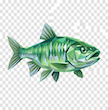
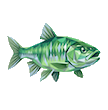
图片抠图替换效果

diff --git a/frontend/src/pages/Quiz.css b/frontend/src/pages/Quiz.css
@@ -173,9 +173,9 @@
 
 .reel-progress__fish {
   position: absolute;
-  top: 1px;
-  width: 82px;
-  height: 56px;
+  top: 3px;
+  width: 88px;
+  height: 60px;
 }
 
 .reel-progress__fish.is-hidden {
@@ -184,30 +184,101 @@
 
 .reel-progress__fish-body {
   position: relative;
-  width: 82px;
-  height: 56px;
+  width: 88px;
+  height: 60px;
+  transform-origin: 52% 62%;
+}
+
+.reel-progress__fish-body::after {
+  content: "";
+  position: absolute;
+  left: 18px;
+  right: 10px;
+  bottom: 6px;
+  height: 10px;
+  border-radius: 999px;
+  background: radial-gradient(ellipse at center, rgba(148, 206, 187, 0.26), rgba(148, 206, 187, 0));
+  filter: blur(4px);
+  opacity: 0.72;
 }
 
 .reel-progress__fish-icon {
-  width: 82px;
-  height: 56px;
+  position: relative;
+  z-index: 1;
+  width: 88px;
+  height: 60px;
   object-fit: contain;
-  filter: drop-shadow(0 10px 18px rgba(80, 121, 74, 0.18));
+  filter:
+    drop-shadow(0 5px 10px rgba(80, 121, 74, 0.12))
+    drop-shadow(0 10px 14px rgba(104, 152, 126, 0.1));
 }
 
 .reel-progress__wake {
   position: absolute;
-  top: 22px;
-  left: -14px;
-  width: 20px;
-  height: 10px;
+  top: 26px;
+  left: -10px;
+  width: 26px;
+  height: 8px;
   border-radius: 999px;
-  background: linear-gradient(90deg, rgba(197, 238, 211, 0.22), transparent);
-  filter: blur(2px);
+  background: linear-gradient(90deg, rgba(197, 238, 211, 0.16), rgba(197, 238, 211, 0.04), transparent);
+  filter: blur(3px);
+  opacity: 0.9;
+}
+
+.reel-progress__bubble {
+  position: absolute;
+  z-index: 0;
+  left: 4px;
+  bottom: 15px;
+  border-radius: 50%;
+  border: 1px solid rgba(213, 241, 236, 0.55);
+  background: radial-gradient(circle at 30% 30%, rgba(255, 255, 255, 0.7), rgba(213, 241, 236, 0.08));
+  box-shadow: 0 0 8px rgba(213, 241, 236, 0.12);
+  opacity: 0;
+  animation: fish-bubble-rise 2.8s ease-out infinite;
+}
+
+.reel-progress__bubble--one {
+  width: 7px;
+  height: 7px;
+  animation-delay: 0s;
+}
+
+.reel-progress__bubble--two {
+  left: 10px;
+  bottom: 20px;
+  width: 5px;
+  height: 5px;
+  animation-delay: 0.9s;
+}
+
+.reel-progress__bubble--three {
+  left: -2px;
+  bottom: 24px;
+  width: 4px;
+  height: 4px;
+  animation-delay: 1.5s;
 }
 
 .quiz-layout {
   display: block;
+}
+
+@keyframes fish-bubble-rise {
+  0% {
+    transform: translate3d(0, 2px, 0) scale(0.75);
+    opacity: 0;
+  }
+  20% {
+    opacity: 0.45;
+  }
+  65% {
+    opacity: 0.28;
+  }
+  100% {
+    transform: translate3d(-8px, -18px, 0) scale(1);
+    opacity: 0;
+  }
 }
 
 .quiz-card {
@@ -616,6 +687,11 @@
 }
 
 @media (prefers-reduced-motion: reduce) {
+  .reel-progress__bubble {
+    animation: none;
+    opacity: 0.16;
+  }
+
   .reel-progress__fish-body,
   .quiz-frame.is-reeling .quiz-card,
   .quiz-frame.is-reeling .reel-progress {

diff --git a/frontend/src/pages/Quiz.tsx b/frontend/src/pages/Quiz.tsx
@@ -399,7 +399,7 @@ function ProgressFish({
         <m.div
           className={`reel-progress__fish ${isLanding ? 'is-hidden' : ''}`}
           initial={false}
-          animate={{ left: `calc(${renderedProgress}% - 36px)` }}
+          animate={{ left: `calc(${renderedProgress}% - 40px)` }}
           transition={
             prefersReducedMotion
               ? { duration: 0.12, ease: 'linear' }
@@ -422,6 +422,9 @@ function ProgressFish({
             }
           >
             <span className="reel-progress__wake" />
+            <span className="reel-progress__bubble reel-progress__bubble--one" />
+            <span className="reel-progress__bubble reel-progress__bubble--two" />
+            <span className="reel-progress__bubble reel-progress__bubble--three" />
             <img src={processFish} alt="" className="reel-progress__fish-icon" draggable={false} />
           </m.div>
         </m.div>
